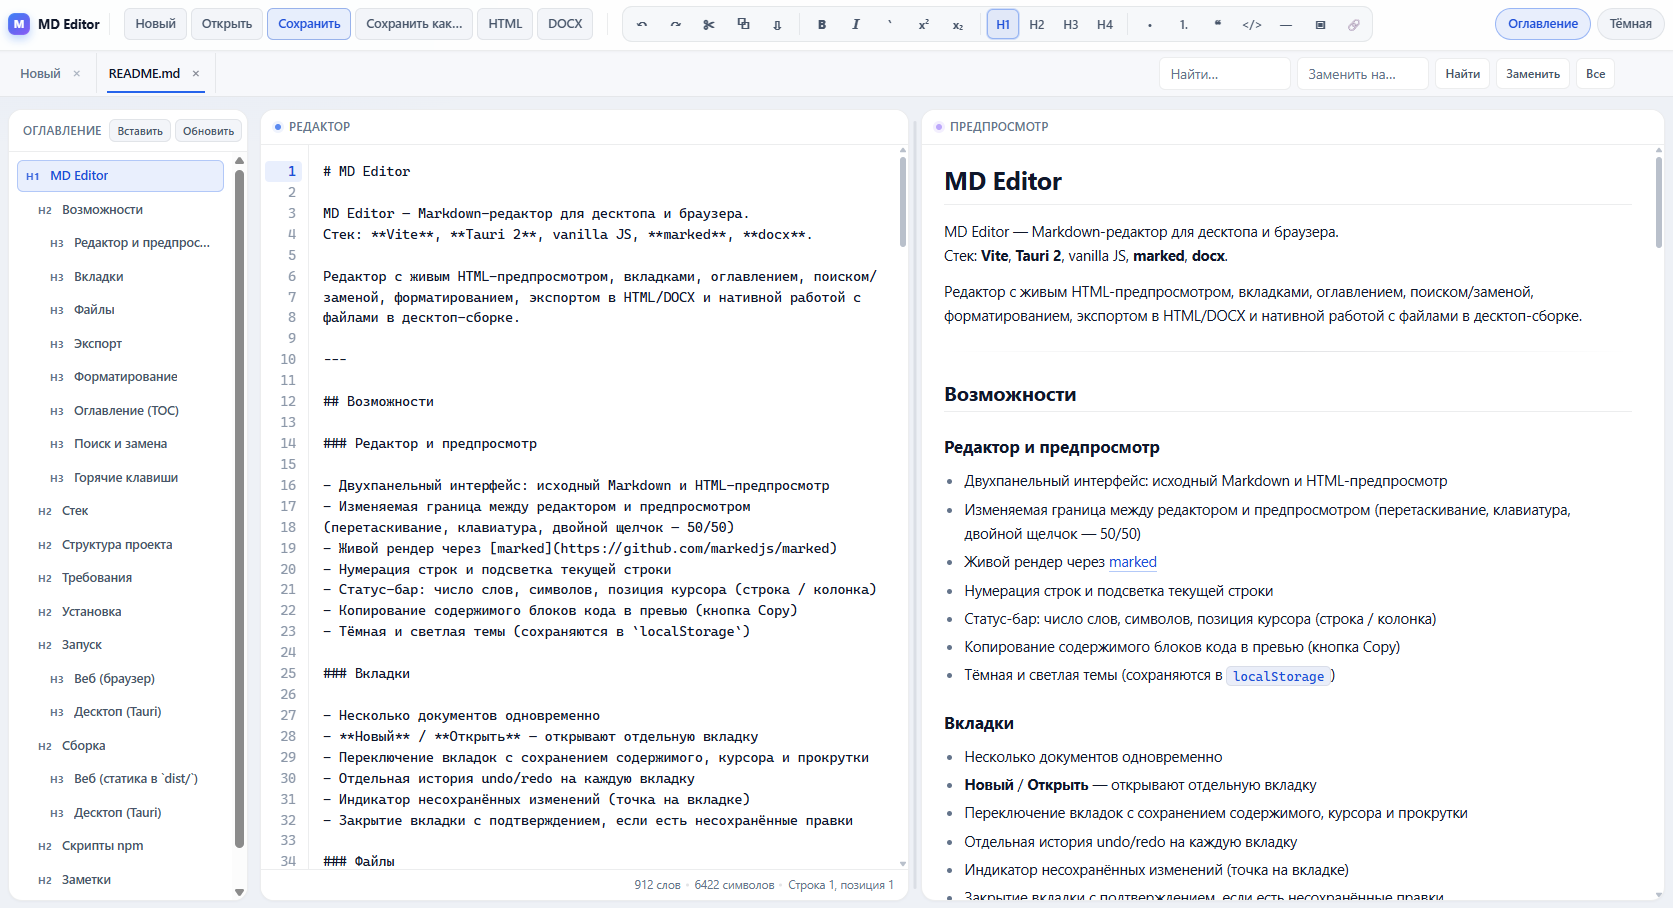
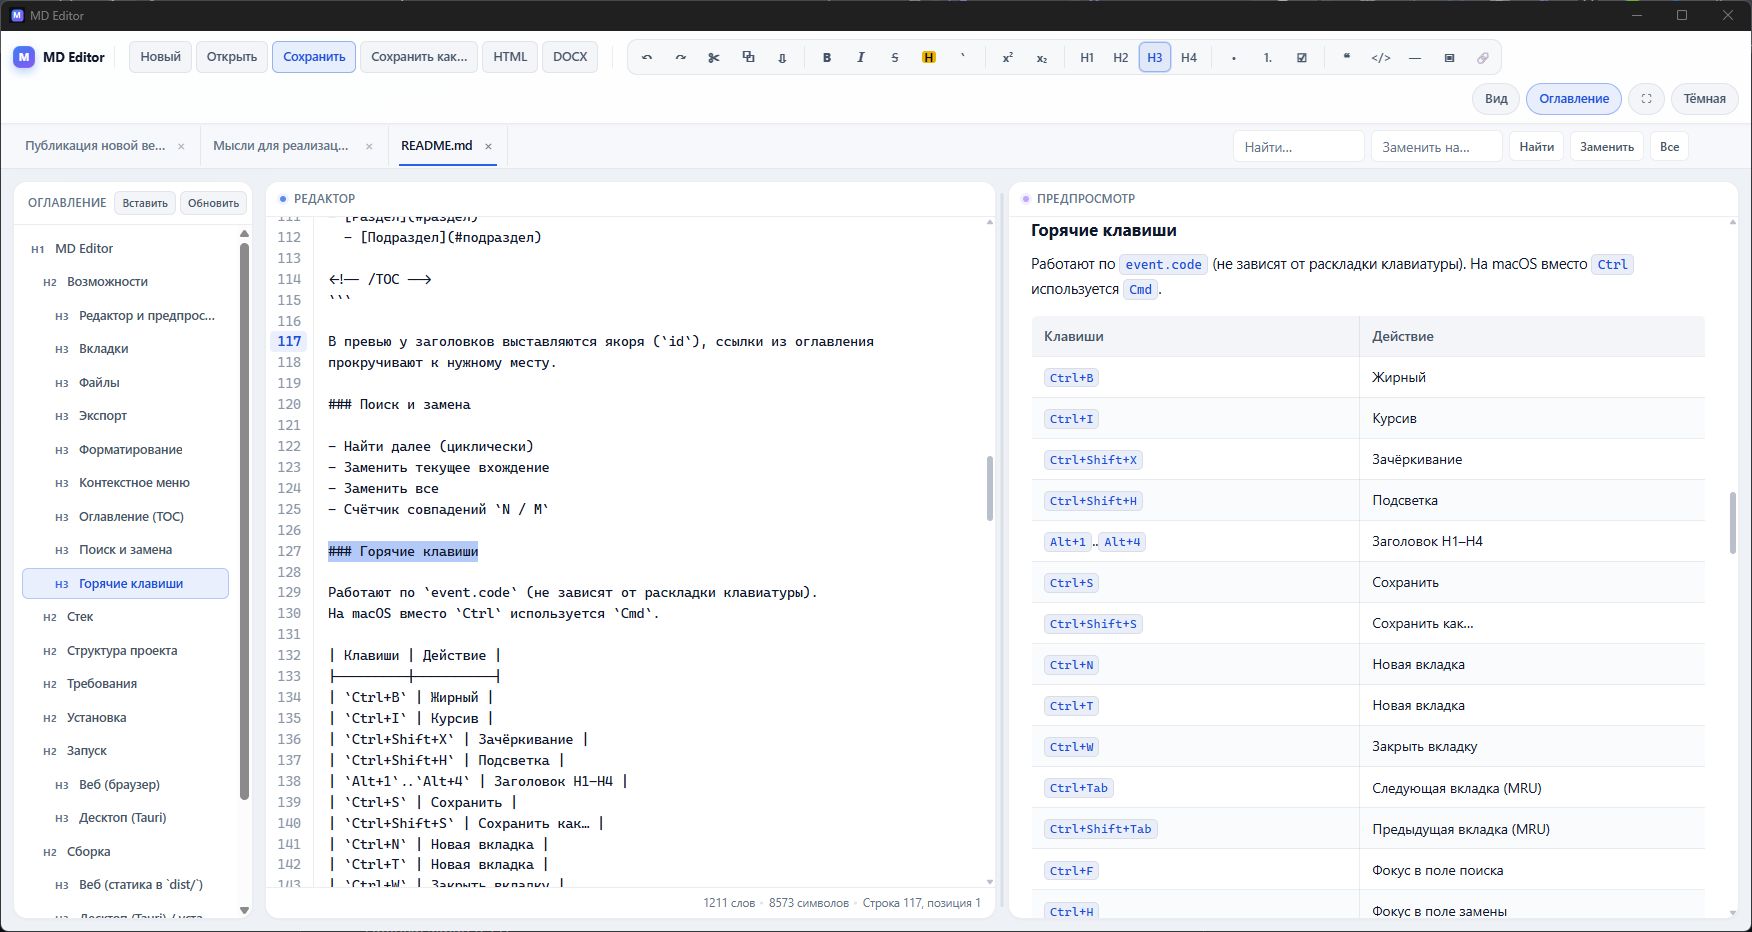
feat: copy button for tables in preview (tab-separated output)

diff --git a/src/main.js b/src/main.js
@@ -197,6 +197,7 @@ function renderPreview(markdownInput, previewOutput) {
   previewOutput.innerHTML = marked.parse(content);
   applyHeadingAnchors(previewOutput, content);
   addCopyButtonsToCodeBlocks(previewOutput);
+  addCopyButtonsToTables(previewOutput);
   enhancePreviewTocLinks(previewOutput);
 }
 
@@ -528,6 +529,29 @@ function addCopyButtonsToCodeBlocks(previewOutput) {
       button.className = 'copy-code-button';
       button.textContent = 'Copy';
       pre.insertBefore(button, pre.firstChild);
+    }
+  });
+}
+
+function addCopyButtonsToTables(previewOutput) {
+  if (!previewOutput) return;
+  const tables = previewOutput.querySelectorAll('table');
+  tables.forEach((table) => {
+    if (table.parentElement.querySelector('.copy-table-button')) return;
+    const wrapper = table.parentElement;
+    if (!wrapper.classList.contains('table-wrapper')) {
+      const div = document.createElement('div');
+      div.className = 'table-wrapper';
+      wrapper.insertBefore(div, table);
+      div.appendChild(table);
+    }
+    const container = table.parentElement;
+    if (!container.querySelector('.copy-table-button')) {
+      const button = document.createElement('button');
+      button.type = 'button';
+      button.className = 'copy-table-button';
+      button.textContent = 'Copy';
+      container.appendChild(button);
     }
   });
 }
@@ -2145,18 +2169,35 @@ window.addEventListener('DOMContentLoaded', () => {
 
   if (previewOutput) {
     previewOutput.addEventListener('click', async (event) => {
-      const button = event.target.closest('.copy-code-button');
-      if (!(button instanceof HTMLButtonElement)) return;
-      const pre = button.closest('pre');
-      if (!pre) return;
-      const code = pre.querySelector('code');
-      if (!code) return;
-      const success = await copyTextToClipboard(code.innerText);
-      button.textContent = success ? 'Copied' : 'Copy';
-      if (success) {
-        setTimeout(() => {
-          button.textContent = 'Copy';
-        }, 1200);
+      const codeBtn = event.target.closest('.copy-code-button');
+      if (codeBtn instanceof HTMLButtonElement) {
+        const pre = codeBtn.closest('pre');
+        if (!pre) return;
+        const code = pre.querySelector('code');
+        if (!code) return;
+        const success = await copyTextToClipboard(code.innerText);
+        codeBtn.textContent = success ? 'Copied' : 'Copy';
+        if (success) {
+          setTimeout(() => { codeBtn.textContent = 'Copy'; }, 1200);
+        }
+        return;
+      }
+      const tableBtn = event.target.closest('.copy-table-button');
+      if (tableBtn instanceof HTMLButtonElement) {
+        const wrapper = tableBtn.closest('.table-wrapper');
+        if (!wrapper) return;
+        const table = wrapper.querySelector('table');
+        if (!table) return;
+        const rows = [...table.querySelectorAll('tr')];
+        const text = rows.map((row) => {
+          const cells = [...row.querySelectorAll('th, td')];
+          return cells.map((cell) => cell.textContent.trim()).join('\t');
+        }).join('\n');
+        const success = await copyTextToClipboard(text);
+        tableBtn.textContent = success ? 'Copied' : 'Copy';
+        if (success) {
+          setTimeout(() => { tableBtn.textContent = 'Copy'; }, 1200);
+        }
       }
     });
   }

diff --git a/src/style.css b/src/style.css
@@ -1180,6 +1180,38 @@ body[data-theme='light'] .preview-output pre .hljs-selector-attr {
   background: var(--button-solid-hover);
 }
 
+.table-wrapper {
+  position: relative;
+}
+
+.copy-table-button {
+  position: absolute;
+  top: 6px;
+  right: 6px;
+  z-index: 2;
+  padding: 4px 9px;
+  background: var(--surface);
+  color: var(--text-secondary);
+  border: 1px solid var(--border);
+  border-radius: var(--radius-sm);
+  cursor: pointer;
+  font-size: 11px;
+  font-weight: 500;
+  box-shadow: var(--shadow-sm);
+  opacity: 0;
+  transition: opacity 0.15s ease;
+}
+
+.table-wrapper:hover .copy-table-button {
+  opacity: 1;
+}
+
+.copy-table-button:hover {
+  color: var(--text);
+  border-color: var(--border-strong);
+  background: var(--button-solid-hover);
+}
+
 .preview-output table {
   width: 100%;
   border-collapse: collapse;